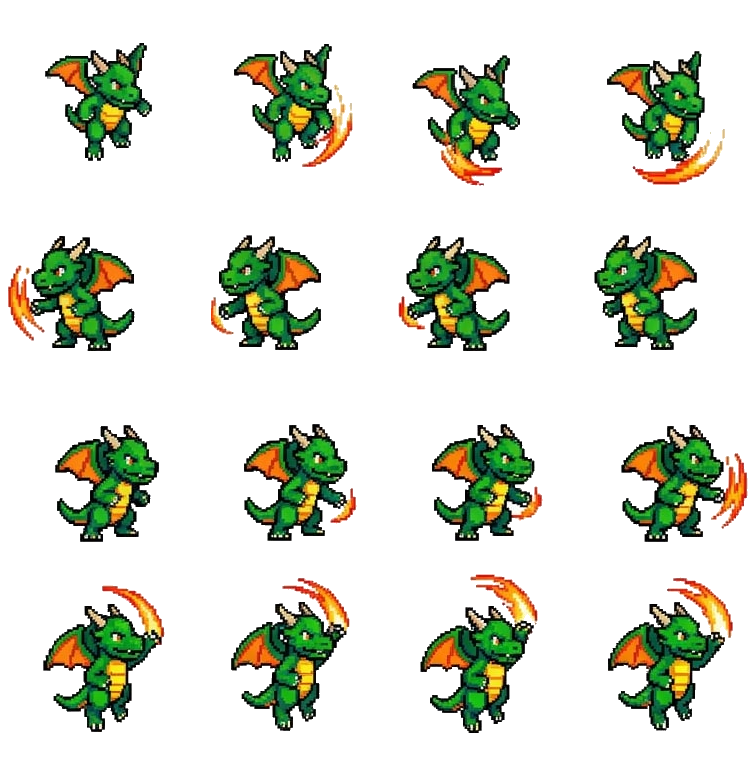
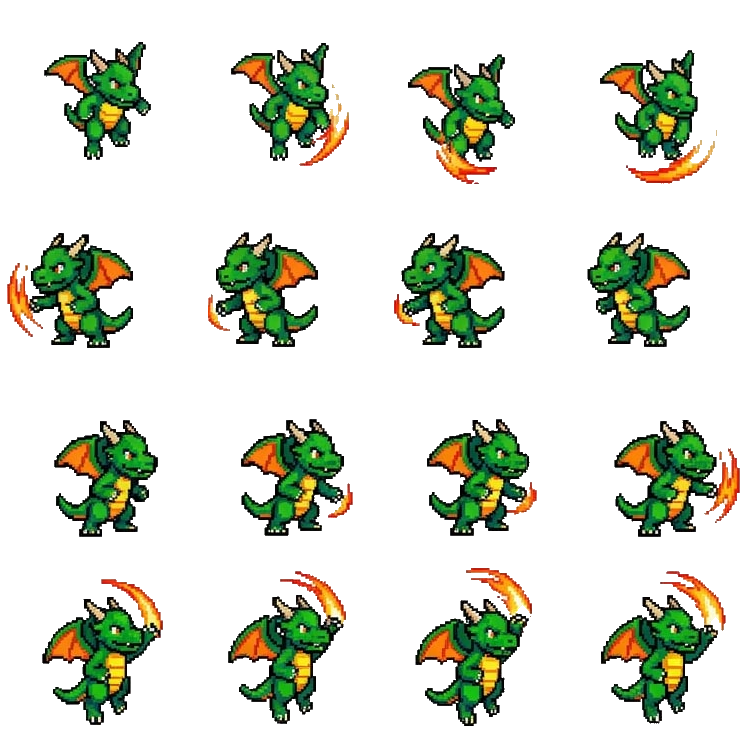
fix: drak – čistší ořez útoků (bez bílých míst u rohů a světlých lemů)
- uzavřené bílé pozadí mezi rohem, hlavou a křídlem (ve sheetu útoků) je průhledné, oči zůstávají
- světlé okrajové pixely kolem obrysu, ohně a seků drápů (JPEG lem) se odstraní

diff --git a/tools/build_dragon_atlas.py b/tools/build_dragon_atlas.py
@@ -46,18 +46,27 @@ BREATH = [  # attack.jpg, ohnivý dech: nádech, oheň, doznění
 ]
 
 
-def load_rgba(path):
-    """JPEG -> RGBA: bílé pozadí spojené s okrajem obrázku je průhledné."""
+def load_rgba(path, hole_min=None):
+    """JPEG -> RGBA: bílé pozadí je průhledné.
+
+    hole_min: uzavřené bílé "díry" (pozadí mezi rohem, hlavou a křídlem) od téhle plochy výš jsou taky pozadí.
+    Menší bílé plochy (oči, odlesky) zůstanou. Pro obrázek chůze se nepoužívá, oči tam mají stejnou plochu jako díry.
+    """
     a = np.array(Image.open(path).convert("RGB")).astype(int)
     mn, mx = a.min(-1), a.max(-1)
     light = (mn > 215) & ((mx - mn) < 30)
-    lab, _ = ndimage.label(light)
+    lab, n = ndimage.label(light)
     border = set(np.unique(np.concatenate([lab[0], lab[-1], lab[:, 0], lab[:, -1]]))) - {0}
     bg = np.isin(lab, list(border))
-    # světlý okraj kolem obrysu (JPEG šum) taky pryč
-    fringe = (mn > 185) & ((mx - mn) < 45)
-    for _ in range(2):
-        bg |= ndimage.binary_dilation(bg) & fringe
+    if hole_min:
+        sizes = ndimage.sum(np.ones_like(lab), lab, range(1, n + 1))
+        holes = [i + 1 for i, size in enumerate(sizes) if size >= hole_min]
+        bg |= np.isin(lab, holes)
+    # světlý lem kolem obrysu, ohně a seků (JPEG šum, dozvuk efektu do bílé): okrajové světlé pixely pryč,
+    # několikrát po sobě; tmavý obrys a sytý oheň zůstanou
+    edge_light = mn > 150
+    for _ in range(4):
+        bg |= ndimage.binary_dilation(bg) & edge_light
     rgba = np.zeros(a.shape[:2] + (4,), np.uint8)
     rgba[..., :3] = a
     rgba[..., 3] = np.where(bg, 0, 255)
@@ -127,7 +136,7 @@ def build(name, rgba, lab, rows):
 def main():
     os.makedirs(OUT, exist_ok=True)
     walk = load_rgba(os.path.join(SRC, "walk.jpg"))
-    attack = load_rgba(os.path.join(SRC, "attack.jpg"))
+    attack = load_rgba(os.path.join(SRC, "attack.jpg"), hole_min=30)
     wl, al = components(walk)[0], components(attack)[0]
     sheets = {
         "walk": build("walk", walk, wl, WALK),
